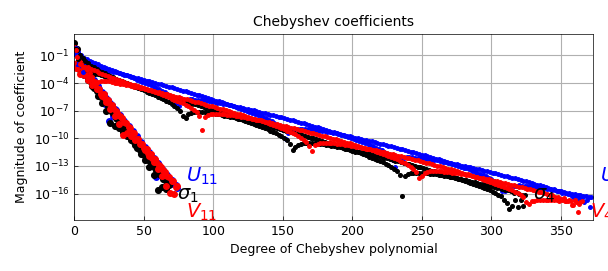
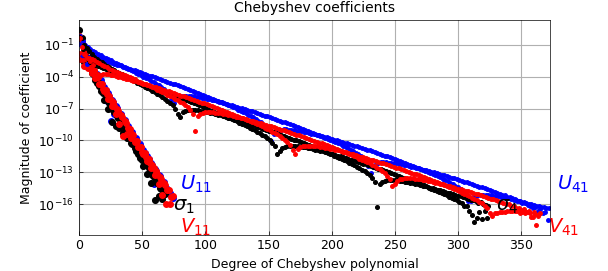
Publish Gibbs minimum correction and unclipped AnalyticSVD labels
Audit the complete Gibbs replay with native minimum agreement and explicit maximum gap. Re-render only the final AnalyticSVD figure from bit-exact saved coefficients, preserving full-run timing.

Changed region(s): [[0.0, 0.0, 1.0, 1.0]]

diff --git a/examples/approx2/gibbs2d.py b/examples/approx2/gibbs2d.py
@@ -5,8 +5,9 @@ Original: https://www.chebfun.org/examples/approx2/Gibbs2D.html
 Copyright The University of Oxford and The Chebfun Developers.
 
 CPU-qualified source execution includes four active-set solves without fallback.
-Triangle extrema are 1.172291450338935 and -0.010179284112782; differences
-from the historical published native reference remain unresolved.
+Triangle minimum -0.004032268925530 matches fresh native to about 3.3e-16.
+Maximum 1.171307334393718 remains about 0.0009841 below fresh native;
+near-tied seed values and graphics differences remain under investigation.
 Camlight, face interpolation and automatic contour levels remain graphics gaps;
 public renderer approximations are not parity.
 """

diff --git a/examples/linalg/analytic_svd.py b/examples/linalg/analytic_svd.py
@@ -42,7 +42,8 @@ def _save(fig):
     FIG[0] += 1
     fig.set_facecolor("white")
     _savefig(fig, os.path.join(
-        _IMG, f"AnalyticSVD_{FIG[0]:02d}.png"), size=(608, 271))
+        _IMG, f"AnalyticSVD_{FIG[0]:02d}.png"), size=(608, 271),
+        layout="matlab" if FIG[0] == 5 else None)
     plt.close(fig)
 
 

diff --git a/docs/examples/approx2/Gibbs2D.md b/docs/examples/approx2/Gibbs2D.md
@@ -6,7 +6,7 @@
 
 Python translation: [`examples/approx2/gibbs2d.py`](https://github.com/ma-gilles/chebfunjax/blob/main/examples/approx2/gibbs2d.py)
 
-> **Qualification:** The complete CPU source replay on revision 4f364d37 passed: the original 100x100 computation, all six extrema calls, twelve fixed-4000 reconstructions and four active-set solves completed without fallback or unsupported branches. With source-rounded Chebyshev grid arguments, the triangle maximum is 1.172291450338935 and minimum is -0.010179284112782. The historical published native page reports 1.294875501773784 and -0.228957699300502; historical parity remains unresolved. A fresh source-direct MATLAB R2025b triangle run gives maximum 1.1722914503389705 (within 3.6e-14 of this JAX result) and minimum -0.004032268925529743, which still differs. That run uses the installed R2025b optimizer; the JAX adapter was qualified against R2017a optimizer source. All eight figures are actual 600x269 outputs, byte-identical to the previous publication. Camlight, interpolated faces, automatic contour levels, framing and typography remain graphics differences. This establishes source execution, not full numerical or graphics parity.
+> **Qualification:** The complete CPU source replay passed after preserving native seed nodes on [-1,1]: the original 100x100 computation, all six extrema calls, twelve fixed-4000 reconstructions and four active-set solves completed without fallback or unsupported branches. The triangle minimum -0.004032268925530 agrees with a fresh R2025b native source run to about 3.3e-16 at full precision. The maximum is 1.171307334393718 versus fresh native 1.1722914503389705, leaving a gap of about 0.0009841. The maximum seed remains sensitive to rounding at near-equal sampled values; the JAX adapter follows R2017a optimization mechanics while this fresh native run uses the installed R2025b provider. The historical published native extrema 1.294875501773784 and -0.228957699300502 are a separate reference. All eight figures are actual 600x269 outputs, byte-identical to the prior publication. Lighting, face interpolation, automatic contour levels, framing and typography remain graphics differences. These results do not establish full numerical or graphics parity.
 
 ## 1. Chebyshev 2D Gibbs effect
 
@@ -38,7 +38,7 @@ max2(p)
 
 ```text
 ans =
-   1.320316254042389
+   1.320316254042390
 ```
 
 This is big! -- about twice what we are used to with a 1D Gibbs effect:
@@ -95,9 +95,9 @@ max2(t), min2(t)
 
 ```text
 ans =
-   1.316297664943328
+   1.316297664943330
 ans =
-  -0.155566549488912
+  -0.155566549488913
 ```
 
 ## 3. A triangular island
@@ -114,9 +114,9 @@ contour(p2), axis([-.6 .6 -.6 .6]), axis square, colorbar
 
 ```text
 ans =
-   1.172291450338935
+   1.171307334393718
 ans =
-  -0.010179284112782
+  -0.004032268925530
 ```
 
 ![Gibbs2D figure 06](../../images/approx2/Gibbs2D_06.png)

diff --git a/HANDOFF_CODEX.md b/HANDOFF_CODEX.md
@@ -1,5 +1,29 @@
 # chebfunjax: handoff to a Codex agent (2026-10-02)
 
+## AnalyticSVD coefficient-plot labels repaired (2026-10-10; latest)
+
+The final figure now reserves native-style axes margins using the existing
+public renderer. All six saved coefficient arrays are bit-exact, and all six
+label bounding boxes fit the 608x271 image. Only the example save-layout
+keyword changes; there is no SVD/adaptive rerun or sign forcing. The page
+retains its actual full-run timer. Reference log limits, typography and
+historical sign parity remain open. Evidence is appended to
+docs/analytic_svd_matched_cpu_20261010.json.
+
+
+## Full Gibbs replay confirms minimum correction (2026-10-10; latest)
+
+The identity-domain seed fix passes the full source page: eleven actual
+answers, eight unchanged 600x269 figures, six extrema, twelve reconstructions
+and four active-set solves without fallback. Triangle minimum is
+-0.004032268925530074, within 3.3e-16 of fresh native R2025b. Maximum is
+1.171307334393718, still 9.84e-4 below fresh native because a nearly tied
+seed changed. Raw factors and reconstructions remain byte-identical.
+All 58,971 inputs and 1,875 runtime files audit clean. Historical numerical
+and figure parity remain open; next saved-array diagnosis targets evaluation
+rounding. Evidence: docs/gibbs_active_set_source_cpu_20261010.json.
+
+
 ## AnalyticSVD executed on captured MATLAB inputs (2026-10-10; latest)
 
 The default matrices now come from literal R2025b rng(10)/randn source

diff --git a/docs/examples/linalg/AnalyticSVD.md b/docs/examples/linalg/AnalyticSVD.md
@@ -212,9 +212,10 @@ commands. All 32 input values match the native capture bit-for-bit. The run
 completed 86 finite, resolved constructions and generated all five 608×271
 figures; the timing above is its actual output. Historical LAPACK sign choices,
 coefficient rounding and visual parity remain unverified. Visible differences
-include singular-vector signs, axes limits and placement, typography, and
-clipped rightmost labels in the coefficient plot. These figures are the actual
-completed run, not reference images.
+include singular-vector signs, axes limits and placement, and typography.
+The coefficient plot was rendered again from the six saved coefficient arrays,
+verified bit-for-bit, to keep all labels visible. The other four figures come
+directly from the completed run; the timing remains that original full run.
 
 ---
 
